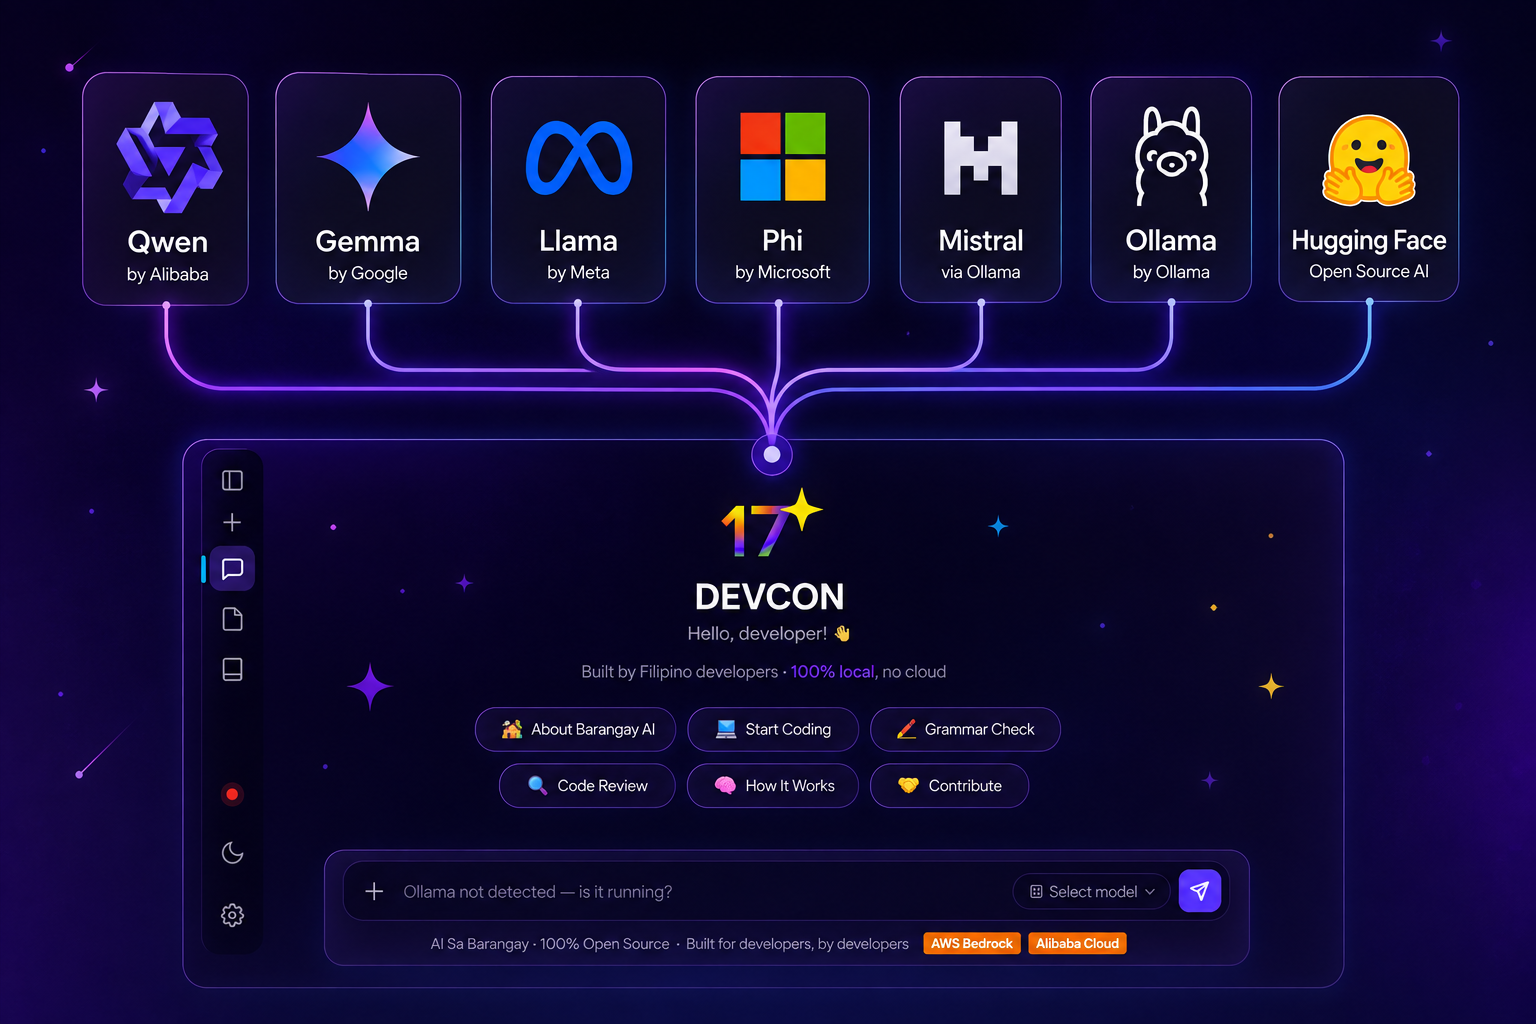
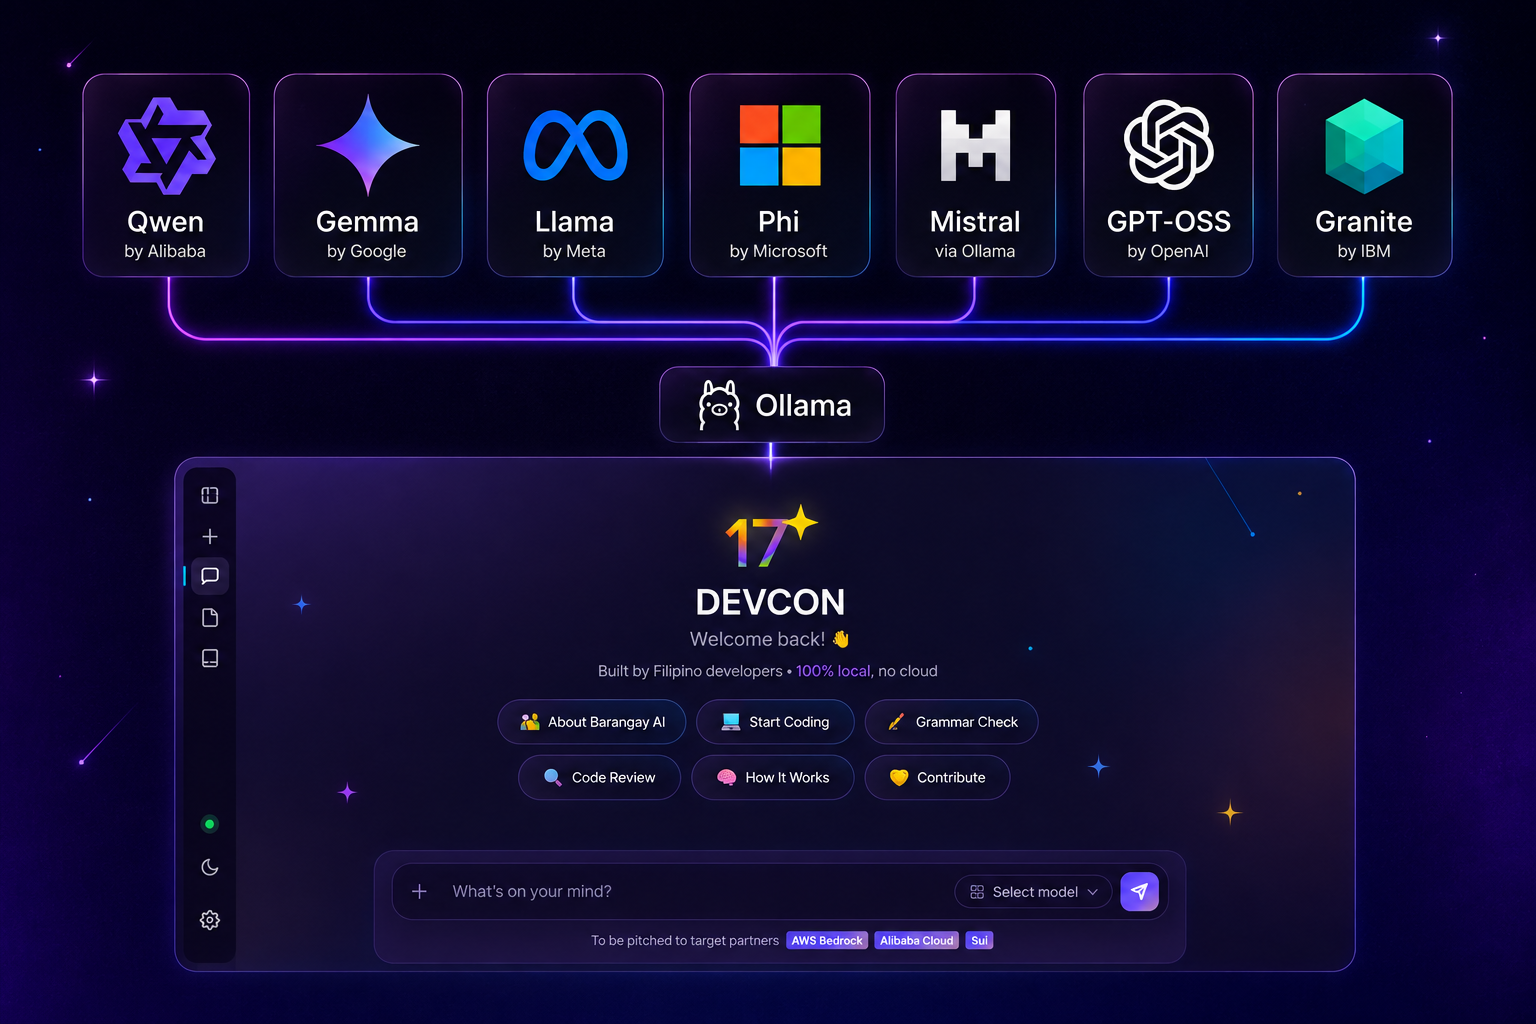
fix: keep streaming UI responsive on long or large-model replies
Reformatting the full accumulated markdown on every single streamed
token made long generations O(n^2) on the main thread, so the reply
appeared to hang and then dump all at once. Re-renders are now
throttled to a fixed rate, with a final unthrottled render once the
stream ends.

Also keep the "Thinking..." indicator visible until the first real
token arrives (not just response headers), and surface an explicit
message when a reasoning model burns its whole max_tokens budget on
<think> content and never emits an answer, instead of silently
dropping the turn.

diff --git a/app/thinking.js b/app/thinking.js
@@ -227,8 +227,6 @@ async function sendMessage() {
 
     if (!response.ok) throw new Error(`HTTP ${response.status}`);
 
-    removeTypingIndicator();
-
     const chatArea = document.getElementById('chat-area');
     const row = document.createElement('div');
     row.className = 'message-row';
@@ -240,8 +238,19 @@ async function sendMessage() {
     bubble.id = 'ai-bubble-latest';
     row.appendChild(avatarDiv);
     row.appendChild(bubble);
-    chatArea.appendChild(row);
-    scrollToBottom();
+
+    // Headers arriving doesn't mean the model has produced anything yet — for a big
+    // model, prompt-eval + first-token latency can be several seconds. Keep the
+    // "Thinking…" indicator up until the first real token streams in, instead of
+    // swapping to an empty bubble that just looks like the app went quiet.
+    let _revealed = false;
+    const revealBubble = () => {
+      if (_revealed) return;
+      _revealed = true;
+      removeTypingIndicator();
+      chatArea.appendChild(row);
+      scrollToBottom();
+    };
 
     const reader = response.body.getReader();
     const decoder = new TextDecoder();
@@ -249,8 +258,11 @@ async function sendMessage() {
     let firstTokenAt = null;   // timestamp of first streamed token → prep/TTFT
     let completionTokens = null;
     let promptTokens = null;
+    let finishReason = null;
     let _usingReasoningField = false; // true if model sends reasoning_content separately
     let _dbgChunk = 0;
+    let _lastRenderAt = 0;
+    const RENDER_THROTTLE_MS = 60; // cap re-render rate so long streams don't reparse markdown on every token
 
     let cancelled = false;
     try {
@@ -269,6 +281,7 @@ async function sendMessage() {
             completionTokens = parsed.usage.completion_tokens ?? completionTokens;
             promptTokens = parsed.usage.prompt_tokens ?? promptTokens;
           }
+          if (parsed.choices?.[0]?.finish_reason) finishReason = parsed.choices[0].finish_reason;
           const rc = parsed.choices?.[0]?.delta?.reasoning_content;
           const cc = parsed.choices?.[0]?.delta?.content;
           let delta = '';
@@ -284,15 +297,22 @@ async function sendMessage() {
             delta = cc;
           }
           if (delta) {
-            if (firstTokenAt === null) firstTokenAt = Date.now();
+            if (firstTokenAt === null) { firstTokenAt = Date.now(); revealBubble(); }
             fullText += delta;
-            const tp = parseThinkDisplay(fullText);
-            if (tp.think) {
-              renderThinkInBubble(bubble, tp.think, tp.display, tp.partial ?? true);
-            } else {
-              bubble.innerHTML = formatContent(fullText);
+            // Full markdown re-parse is O(current length) — reformatting on every single
+            // token turns a long stream into O(n^2) work and stalls the main thread until
+            // the whole reply "dumps" at once. Cap how often we actually repaint.
+            const now = Date.now();
+            if (now - _lastRenderAt >= RENDER_THROTTLE_MS) {
+              _lastRenderAt = now;
+              const tp = parseThinkDisplay(fullText);
+              if (tp.think) {
+                renderThinkInBubble(bubble, tp.think, tp.display, tp.partial ?? true);
+              } else {
+                bubble.innerHTML = formatContent(fullText);
+              }
+              scrollToBottom();
             }
-            scrollToBottom();
           }
         } catch (e) { if (_dbgChunk++ < 6) console.error('[stream parse error]', e.message, data?.slice(0, 120)); }
       }
@@ -303,18 +323,44 @@ async function sendMessage() {
       else throw readErr;
     }
 
+    // Guarantee the indicator is cleared and the bubble is on-screen even if the
+    // model never emitted a single token (empty response, or cancelled that early).
+    revealBubble();
+
     // If model used reasoning_content but never closed <think>, force-close so the block renders
     if (fullText.includes('<think>') && !fullText.includes('</think>')) {
       fullText += '</think>';
-      const tp = parseThinkDisplay(fullText);
-      renderThinkInBubble(bubble, tp.think, tp.display, false);
     }
+
+    // Render is throttled during streaming, so the last chunk (and the think-closed
+    // state) may not have painted yet — always do one final unthrottled render here.
+    if (fullText) {
+      const tpFinal = parseThinkDisplay(fullText);
+      if (tpFinal.think) {
+        renderThinkInBubble(bubble, tpFinal.think, tpFinal.display, false);
+      } else {
+        bubble.innerHTML = formatContent(fullText);
+      }
+    }
+
+    // True when the model spent its whole turn on reasoning_content and never emitted
+    // any real content — e.g. a reasoning model whose max_tokens cap ran out mid-think.
+    const thinkOnly = fullText.includes('<think>') && !parseThinkDisplay(fullText).display;
 
     if (!fullText && !cancelled) {
       bubble.innerHTML = '<em style="color:var(--text-muted)">No response received.</em>';
       // Remove the user message so this failed turn doesn't poison history
       messages.pop();
       if (session && session.displayMessages.length) session.displayMessages.pop();
+    } else if (thinkOnly && !cancelled) {
+      // Popping the answerless turn happens below (savedContent is empty, so the
+      // existing "model only generated thinking" branch at the bottom handles it).
+      const note = document.createElement('div');
+      note.style.cssText = 'color:var(--text-muted);font-style:italic;margin-top:6px;font-size:13px';
+      note.textContent = (finishReason === 'length')
+        ? `The model used its entire${window._MAX_TOKENS_ACTIVE ? ` ${window._MAX_TOKENS_ACTIVE}-token` : ''} limit thinking and didn't get to answer. Try raising the token limit or setting it to "No limit".`
+        : "The model finished thinking but didn't produce an answer.";
+      bubble.appendChild(note);
     }
 
     // Show the cancellation note (after any partial answer the model managed to stream).

diff --git a/index.html b/index.html
@@ -268,7 +268,7 @@
       </div>
       <textarea
         id="message-input"
-        placeholder="Ask the DEVCON Barangay AI anything…"
+        placeholder="What's on your mind?"
         rows="1"
         onkeydown="handleKey(event)"
         oninput="autoResize(this)"
@@ -285,11 +285,10 @@
       </div>
     </div>
     <div class="input-tip">
-      AI Sa Barangay · Ollama + Qwen · Open Source
-      <span class="input-tip-dot">·</span>
       To be pitched to target partners
-      <span class="tip-badge aws">AWS Bedrock</span>
-      <span class="tip-badge alibaba">Alibaba Cloud</span>
+      <span class="tip-badge dc-brand-gradient">AWS Bedrock</span>
+      <span class="tip-badge dc-brand-gradient">Alibaba Cloud</span>
+      <span class="tip-badge dc-brand-gradient">Sui</span>
     </div>
     <div class="legal-disclaimer">
       <div class="legal-disclaimer-inner">
@@ -555,7 +554,7 @@ git commit -m "Make the AI mine"</code></div></div>
       <div class="modal-header-text">
         <div class="modal-mabuhay">Mabuhay! 🇵🇭</div>
         <h2>DEVCON BARANGAY AI</h2>
-        <p>AI Sa Barangay</p>
+        <p>Free, Open-source, Community-owned Build Your Barangay's AI</p>
       </div>
       <button class="modal-close" onclick="closeModal()" aria-label="Close">
         <svg width="13" height="13" viewBox="0 0 24 24" fill="none" stroke="currentColor" stroke-width="2.5" stroke-linecap="round" stroke-linejoin="round"><line x1="18" y1="6" x2="6" y2="18"/><line x1="6" y1="6" x2="18" y2="18"/></svg>
@@ -851,6 +850,7 @@ git commit -m "Make the AI mine"</code></div></div>
         <div class="model-chip"><img src="assets/logos/Mistral_logo.webp" alt=""><span><span class="model-chip-name">Mistral</span><br><span class="model-chip-by">open weights</span></span></div>
         <div class="model-chip"><img src="assets/logos/IBM_granite_logo.webp" alt=""><span><span class="model-chip-name">Granite</span><br><span class="model-chip-by">by IBM</span></span></div>
         <div class="model-chip"><img src="assets/logos/deepseek_logo.png" alt=""><span><span class="model-chip-name">DeepSeek</span><br><span class="model-chip-by">by DeepSeek AI</span></span></div>
+        <div class="model-chip"><img src="assets/logos/open-ai_logo.png" alt=""><span><span class="model-chip-name">GPT-OSS</span><br><span class="model-chip-by">by OpenAI</span></span></div>
         <div class="model-chip"><img src="assets/logos/hugging_face.png" alt=""><span><span class="model-chip-name">Hugging Face</span><br><span class="model-chip-by">open model hub</span></span></div>
         <div class="model-chip"><img src="assets/logos/ollama_logo.png" alt=""><span><span class="model-chip-name">Ollama</span><br><span class="model-chip-by">runs them all, locally</span></span></div>
       </div>
@@ -872,6 +872,7 @@ git commit -m "Make the AI mine"</code></div></div>
       <div style="font-size:11.5px;font-weight:800;text-transform:uppercase;letter-spacing:0.5px;color:var(--text-secondary);margin-bottom:6px">Our recommendation</div>
       <div class="rec-group" style="margin-bottom:16px">
         <div class="rec-row">
+          <img class="rec-logo" src="assets/logos/Qwen_logo.webp" alt="">
           <div class="rec-info">
             <span class="rec-name">⭐ qwen2.5:1.5b <em>1.5B · ~1 GB download</em></span>
             <span class="rec-desc">Our top pick — light, fast, and runs on nearly any laptop.</span>
@@ -879,6 +880,7 @@ git commit -m "Make the AI mine"</code></div></div>
           <button class="rec-copy" data-pull-tag="qwen2.5:1.5b" onclick="pullModelOneClick('qwen2.5:1.5b')" title="Download and install this model via Ollama">Download</button>
         </div>
         <div class="rec-row">
+          <img class="rec-logo" src="assets/logos/Meta_logo.png" alt="">
           <div class="rec-info">
             <span class="rec-name">llama3.2:1b <em>1B · ~1.3 GB download</em></span>
             <span class="rec-desc">Meta's smallest — snappy even without a GPU.</span>
@@ -886,6 +888,7 @@ git commit -m "Make the AI mine"</code></div></div>
           <button class="rec-copy" data-pull-tag="llama3.2:1b" onclick="pullModelOneClick('llama3.2:1b')" title="Download and install this model via Ollama">Download</button>
         </div>
         <div class="rec-row">
+          <img class="rec-logo" src="assets/logos/gemma_logo.png" alt="">
           <div class="rec-info">
             <span class="rec-name">gemma3:1b <em>1B · ~0.8 GB download</em></span>
             <span class="rec-desc">Google's lightweight model — tiny download, quick replies.</span>
@@ -1209,9 +1212,16 @@ git commit -m "Make the AI mine"</code></div></div>
 
       <!-- Name (per persona) -->
       <div class="settings-field">
-        <label class="settings-label" for="settings-ai-name">Name</label>
+        <label class="settings-label" for="settings-ai-name">Your Barangay Name</label>
         <input class="settings-input" id="settings-ai-name" type="text" placeholder="e.g. Barangay AI, Bayani, Isko…" maxlength="40" oninput="commitPersonaDraft(); updateSettingsPreview()">
         <span class="settings-hint">The AI's name — appears in the header, welcome screen, and chat avatars.</span>
+      </div>
+
+      <!-- Creator name -->
+      <div class="settings-field">
+        <label class="settings-label" for="settings-creator-name">Creator Name</label>
+        <input class="settings-input" id="settings-creator-name" type="text" placeholder="e.g. Juan Dela Cruz" maxlength="60">
+        <span class="settings-hint">Your name — credited as the builder of this AI.</span>
       </div>
 
       <hr class="settings-divider">

diff --git a/app/models.js b/app/models.js
@@ -639,12 +639,15 @@ async function addEndpoint(kind) {
 
 // ── CONNECTIVITY CHECK ────────────────────────────────────────────────
 async function checkConnectivity() {
+  const base = window.ACTIVE_BASE || API_BASE;
+  const key  = window.ACTIVE_KEY  || API_KEY;
+
   try {
     const ctrl = new AbortController();
     const timeout = setTimeout(() => ctrl.abort(), 6000);
-    await fetch(`${API_BASE}/models`, {
+    await fetch(`${base}/models`, {
       method: 'GET',
-      headers: { 'Authorization': `Bearer ${API_KEY}` },
+      headers: { 'Authorization': `Bearer ${key}` },
       signal: ctrl.signal
     });
     clearTimeout(timeout);
@@ -653,14 +656,14 @@ async function checkConnectivity() {
   } catch {}
 
   // Only probe chat completions if a model is actually selected (otherwise the
-  // GET /models check above is what tells us whether Ollama is reachable).
+  // GET /models check above is what tells us whether the endpoint is reachable).
   if (window.ACTIVE_MODEL) {
     try {
       const ctrl2 = new AbortController();
       const timeout2 = setTimeout(() => ctrl2.abort(), 8000);
-      await fetch(`${API_BASE}/chat/completions`, {
+      await fetch(`${base}/chat/completions`, {
         method: 'POST',
-        headers: { 'Authorization': `Bearer ${API_KEY}`, 'Content-Type': 'application/json' },
+        headers: { 'Authorization': `Bearer ${key}`, 'Content-Type': 'application/json' },
         body: JSON.stringify({ model: window.ACTIVE_MODEL, messages: [{ role: 'user', content: 'hi' }], max_tokens: 1, stream: false }),
         signal: ctrl2.signal
       });
@@ -676,25 +679,27 @@ async function checkConnectivity() {
 function setConnected(ok) {
   isConnected = ok;
 
+  const label = window.ACTIVE_MODEL || 'Ollama';
+
   const chip = document.getElementById('header-status-chip');
   const text = document.getElementById('header-status-text');
   chip.classList.toggle('disconnected', !ok);
-  text.textContent = ok ? 'Ollama' : 'Offline';
+  text.textContent = ok ? label : 'Offline';
 
   const card = document.getElementById('sidebar-wifi');
   const status = document.getElementById('sidebar-wifi-status');
   const statusText = document.getElementById('sidebar-wifi-text');
   card.className = 'sidebar-wifi ' + (ok ? 'connected' : 'disconnected');
   status.className = 'sidebar-wifi-status ' + (ok ? 'ok' : 'err');
-  statusText.textContent = ok ? 'Connected · Model online' : 'Ollama not detected';
+  statusText.textContent = ok ? 'Connected · Model online' : `${label} not detected`;
 
   const railDot = document.getElementById('rail-dot');
   if (railDot) railDot.className = 'rail-dot ' + (ok ? 'ok' : 'err');
 
   document.getElementById('send-btn').disabled = false;
   document.getElementById('message-input').placeholder = ok
-    ? 'Ask anything — local, private, free…'
-    : 'Ollama not detected — is it running?';
+    ? 'What\'s on your mind?'
+    : `${label} not detected — is it running?`;
 }
 
 checkConnectivity();

diff --git a/styles.css b/styles.css
@@ -1418,8 +1418,6 @@
     white-space: nowrap;
     line-height: 1.6;
   }
-  .tip-badge.aws { background: #FF9900; }
-  .tip-badge.alibaba { background: linear-gradient(135deg, #FF6A00, #FF9A00); }
 
   /* MODEL SELECT BUTTON (inside input box — Gemini Flash style) */
   .model-select-btn {
@@ -2314,6 +2312,14 @@
   .modal-card::-webkit-scrollbar { width: 3px; }
   .modal-card::-webkit-scrollbar-thumb { background: var(--border); border-radius: 2px; }
 
+  /* Onboarding copy reads too dim on the dark theme's muted/secondary
+     grays — every var(--text-secondary)/var(--text-muted) use in here
+     (classes and inline styles alike) resolves to near-white instead. */
+  [data-theme="dark"] .onboarding-card {
+    --text-secondary: var(--text-primary);
+    --text-muted: var(--text-primary);
+  }
+
   .modal-header {
     padding: 22px 22px 0;
     display: flex;
@@ -2353,7 +2359,7 @@
     letter-spacing: 0.3px;
     margin-bottom: 4px;
   }
-  [data-theme="dark"] .modal-mabuhay { color: var(--dc-accent); }
+  [data-theme="dark"] .modal-mabuhay { color: var(--text-primary); }
 
   .lang-toggle-soon {
     display: flex;
@@ -2463,7 +2469,7 @@
     gap: 9px;
     align-items: flex-start;
   }
-  [data-theme="dark"] .modal-highlight { color: var(--dc-accent); background: color-mix(in srgb, var(--dc-blue) 10%, transparent); border-color: color-mix(in srgb, var(--dc-blue) 20%, transparent); }
+  [data-theme="dark"] .modal-highlight { color: var(--text-primary); background: color-mix(in srgb, var(--dc-blue) 10%, transparent); border-color: color-mix(in srgb, var(--dc-blue) 20%, transparent); }
   .modal-highlight svg { flex-shrink: 0; margin-top: 2px; }
 
   .stack-grid {
@@ -2702,6 +2708,7 @@
     background: var(--bg-secondary); margin-bottom: 6px;
   }
   .rec-row.dim { opacity: 0.55; }
+  .rec-logo { width: 20px; height: 20px; object-fit: contain; border-radius: 5px; flex-shrink: 0; }
   .rec-info { flex: 1; min-width: 0; display: flex; flex-direction: column; gap: 1px; }
   .rec-name { font-size: 12.5px; font-weight: 700; color: var(--text-primary); font-family: var(--font-mono); }
   .rec-name em { font-style: normal; font-weight: 600; font-size: 11px; color: var(--text-muted); margin-left: 6px; }
@@ -3770,6 +3777,7 @@
     color: var(--text-primary);
     box-shadow: 0 1px 4px rgba(22,32,46,0.1);
   }
+  [data-theme="dark"] .seg-tabs button.on { background: var(--bg-primary); }
   #sidebar[data-tab="sources"] .sidebar-section,
   #sidebar[data-tab="sources"] .history-list { display: none; }
   #sidebar[data-tab="chats"] #kb-panel { display: none; }

diff --git a/app/settings.js b/app/settings.js
@@ -27,8 +27,6 @@ function applySettings(s) {
   document.getElementById('chat-title').textContent = name;
   const wt = document.querySelector('.welcome-title');
   if (wt) wt.textContent = name;
-  const mh = document.querySelector('.modal-header-text h2');
-  if (mh) mh.textContent = name.toUpperCase();
   if (_activePersona) {
     window._AI_TONE_ACTIVE = _activePersona.systemPrompt || '';
   } else if (s.ai_tone !== undefined) {
@@ -142,6 +140,8 @@ function openSettings() {
   brandInput.value     = s.brand_color      || BRAND_COLOR;
   greetInput.value     = s.welcome_greeting || '';
   if (knowledgeInput) knowledgeInput.value = s.ai_knowledge || '';
+  const creatorInput = document.getElementById('settings-creator-name');
+  if (creatorInput) creatorInput.value = s.creator_name || '';
 
   // Model controls (prefix / suffix / temperature / max tokens)
   const prefixInput = document.getElementById('settings-prompt-prefix');
@@ -232,6 +232,8 @@ function resetSettingsForm() {
   document.getElementById('settings-greeting').value = '';
   const ki = document.getElementById('settings-ai-knowledge');
   if (ki) ki.value = '';
+  const ci = document.getElementById('settings-creator-name');
+  if (ci) ci.value = '';
   const tn = document.getElementById('settings-training-notes');
   if (tn) tn.value = '';
   const pf = document.getElementById('settings-prompt-prefix');
@@ -272,6 +274,7 @@ function applyAndSaveSettings() {
     ai_tone:          (window._BASE_TONE_DRAFT || '').trim(),
     welcome_greeting: document.getElementById('settings-greeting').value.trim(),
     ai_knowledge:     (document.getElementById('settings-ai-knowledge')?.value.trim() || ''),
+    creator_name:     (document.getElementById('settings-creator-name')?.value.trim() || ''),
     training_files:   (window._TRAINING_FILES_DRAFT || []),
     training_notes:   (document.getElementById('settings-training-notes')?.value.trim() || ''),
     reply_language:   (document.querySelector('#lang-picker .lang-chip.active')?.dataset.lang || 'english'),

diff --git a/app/onboarding.js b/app/onboarding.js
@@ -119,12 +119,20 @@ function recommendModels(ramGB, vramGB) {
   return { best, runnable, notRecommended, cpuOnly: !vramGB };
 }
 
+const FAMILY_LOGO = {
+  Qwen: 'assets/logos/Qwen_logo.webp',
+  Gemma: 'assets/logos/gemma_logo.png',
+  Llama: 'assets/logos/Meta_logo.png',
+};
+
 function _recRowHtml(m, starred, dim) {
   const star = starred ? '⭐ ' : '';
   const tag = escapeHtml(m.tag);
+  const logo = FAMILY_LOGO[m.family];
   const downloadBtn = dim ? '' :
     `<button class="rec-copy" data-pull-tag="${tag}" onclick="pullModelOneClick('${tag}')" title="Download and install this model via Ollama">Download</button>`;
   return `<div class="rec-row${dim ? ' dim' : ''}">
+    ${logo ? `<img class="rec-logo" src="${logo}" alt="">` : ''}
     <div class="rec-info">
       <span class="rec-name">${star}${tag} <em>${escapeHtml(m.params)} · needs ~${m.needGB} GB</em></span>
       <span class="rec-desc">${escapeHtml(m.desc)}</span>
